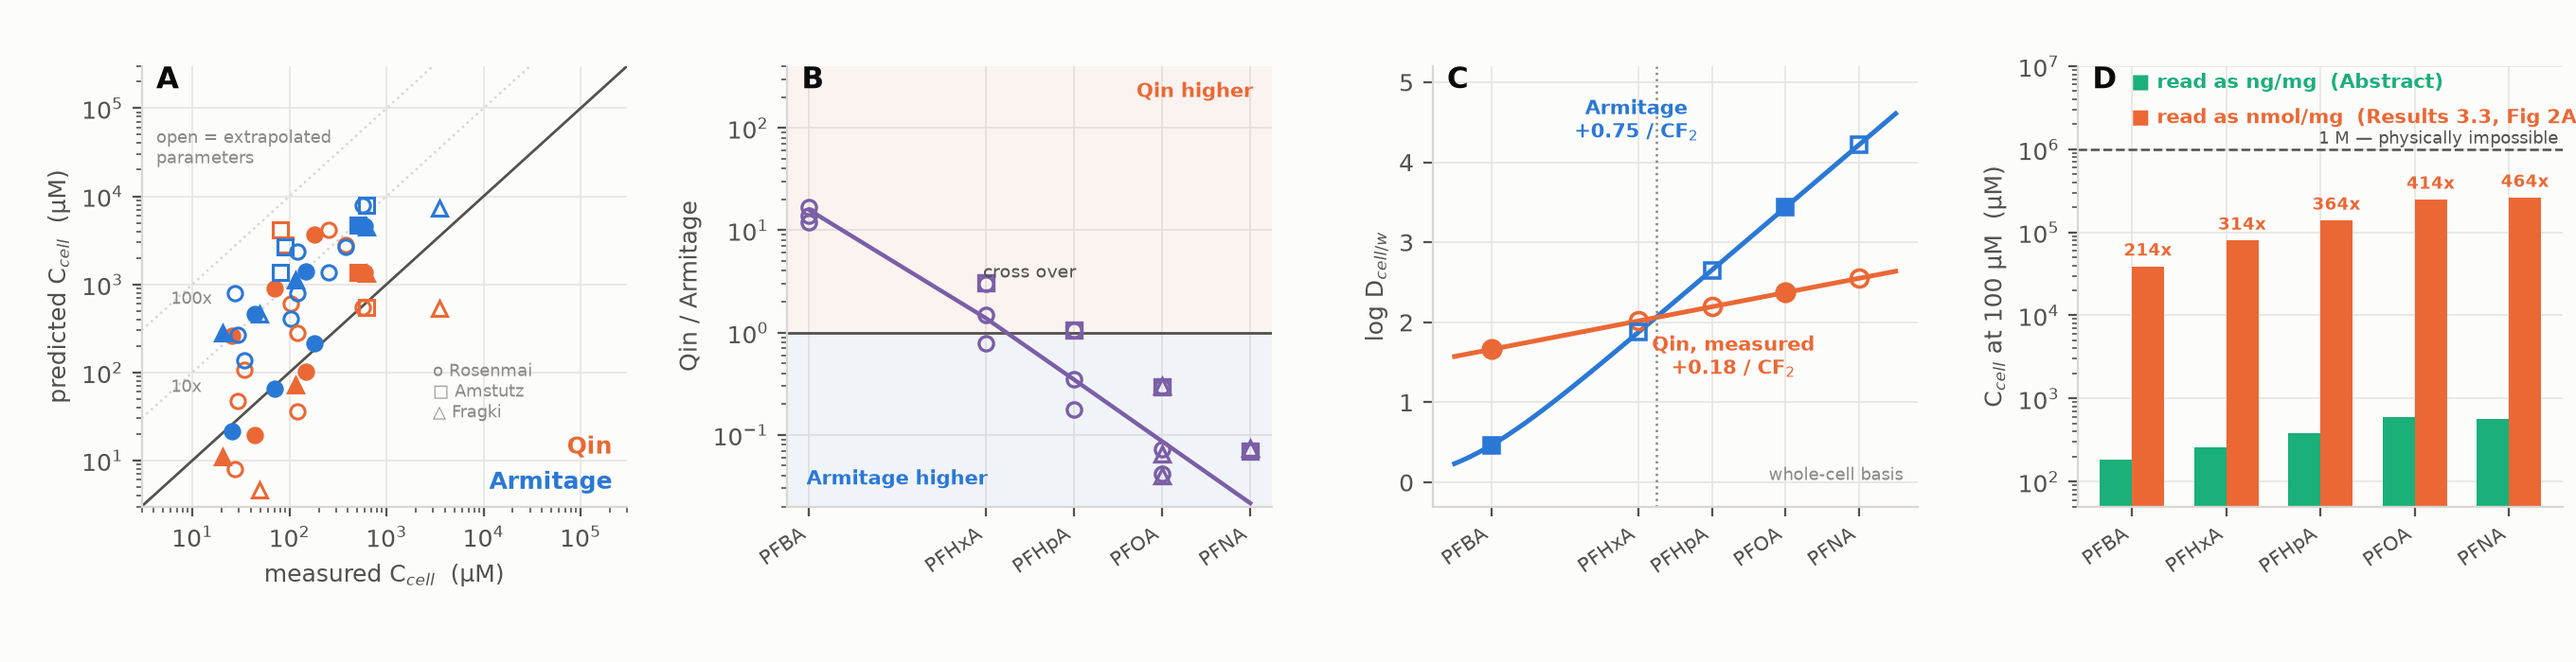
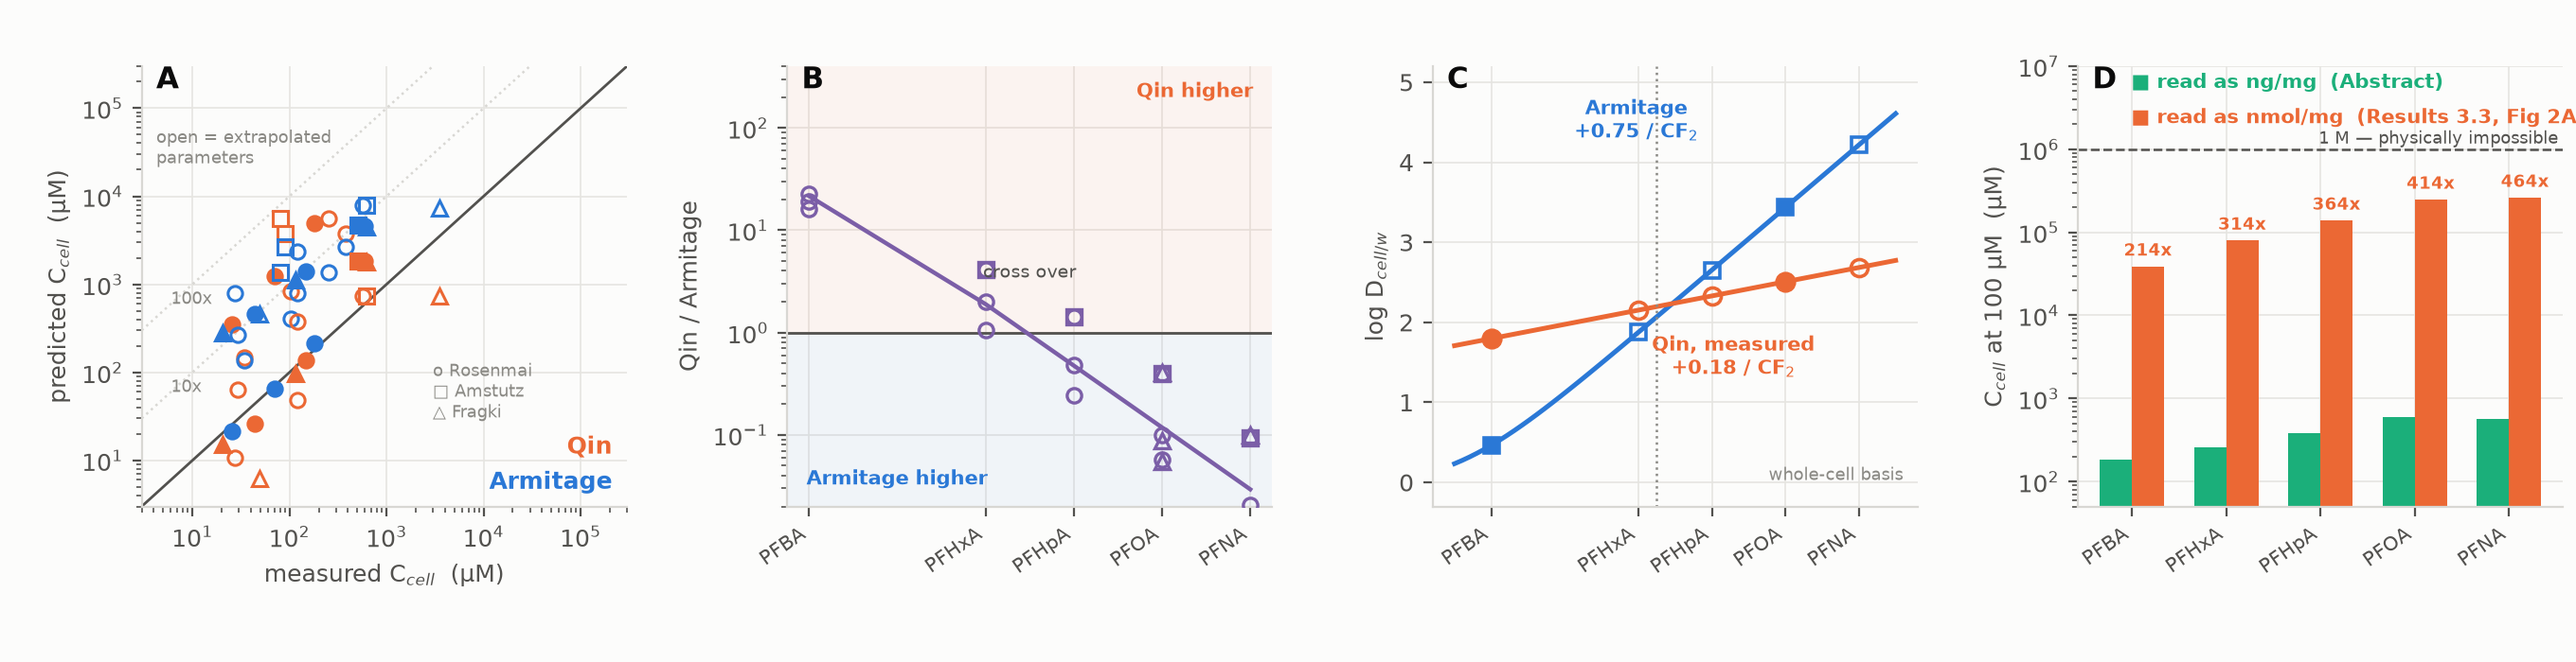
Use Qin's measured cell composition and couple it to the protein factor
Qin states the composition of the HEK293H cells his D_cell/w was measured in:
"the volume fractions of water, protein and lipid of cells were 91.6%, 8.14%
and 0.432% (Table A5)". That same pair fixes both the prot+lip fraction Qin's
cell term is scaled by and the mg-protein-per-mL-of-cell factor that converts a
measured nmol/mg into a concentration, so they are now one parameter; setting
them independently put two different cells in the same calculation. Default is
the HepG2 basis (0.164 protein by volume) since the measured data are HepG2 and
HepaRG, with Qin's HEK293H value carried as the alternative.

Also fixes a late-binding bug: ccell_from_nmol_per_mg took the protein factor
as a default argument, bound once at import, so sensitivity runs moved the
predicted side without moving the measured side and reported the opposite of
the real behaviour.

With that fixed, the composition pair is a clean diagnostic: Qin/measured moves
only 37.7x -> 38.3x (1.6%) across a 2x change in cell protein content, because
both sides scale with the protein fraction and it cancels, while
Armitage/measured moves the full 2x (1.66x -> 3.34x) because its cell is on a
whole-cell basis and only the measured side shifts. The protein-per-cell-volume
factor is therefore the largest remaining uncertainty in the Armitage limb.

Claude-Session: https://claude.ai/code/session_01KWGaE5eHaWPnoHpTeKGRB5

diff --git a/tk_review/scripts/mbm_qin_vs_armitage.py b/tk_review/scripts/mbm_qin_vs_armitage.py
@@ -189,13 +189,29 @@ ARM = dict(
 # Qin's Table 2 header reads "log Dcell/w [Lw/Lcell,prot+lip]": the ratio is per
 # litre of cell PROTEIN+LIPID, not per litre of cell.  Armitage's DR_kcw is per
 # litre of whole cell (its composition sums to 1.0 and includes 0.90 water), so
-# Qin's cell term must be scaled by this fraction before the two share an axis.
-# 0.1265 is the value in the project spreadsheet (675 pg protein + lipid per
-# 3.04 pL cell).  httk's cell is 0.10 non-water; a protein density of
-# 1.35 g/mL on 675 pg/cell gives 0.166.  It is a <=1.6x lever on Qin alone and
-# does not touch the chain-length slope.
-F_PROTLIP = 0.1265
-F_PROTLIP_RANGE = (0.100, 0.166)
+# Qin's cell term must be scaled by that fraction before the two share an axis.
+#
+# Qin measured it in the same HEK293H cells D_cell/w came from: "The volume
+# fractions of water, protein and lipid of cells were 91.6%, 8.14% and 0.432%
+# (Table A5)".  Those two numbers also fix the protein-per-cell-volume factor
+# that converts a measured nmol/mg protein into a concentration, so they are
+# kept as ONE pair -- setting them independently would assume two different
+# cells in the same calculation.  The ratio predicted/measured is nearly
+# invariant to the pair, because both sides scale with the protein fraction;
+# see composition_invariance().
+# The measured datasets are HepG2 and HepaRG, so the default is the project
+# spreadsheet's HepG2 basis: 675 pg protein in a 3.04 pL cell = 222 mg/mL =
+# a 0.164 protein volume fraction at 1.35 g/mL.  Qin's own HEK293H value is
+# 0.0814 -- 2x lower -- and is carried as the alternative.  Transferring Qin's
+# D_cell/w to HepG2 means applying it to HepG2's prot+lip volume, which is the
+# point of normalising to prot+lip in the first place.
+PROTEIN_DENSITY_G_ML = 1.35
+CELL_VF_PROTEIN = 0.164        # HepG2, project spreadsheet
+CELL_VF_LIPID = 0.00870        # scaled from Qin's protein:lipid volume ratio
+CELL_VF_PROTEIN_QIN = 0.0814   # Qin Table A5, HEK293H
+CELL_VF_LIPID_QIN = 0.00432    # Qin Table A5
+
+F_PROTLIP = CELL_VF_PROTEIN + CELL_VF_LIPID
 
 def armitage_pcs(logKow_n, kbsa2=False, kpl2=False):
     """spLFERs, httk armitage.R lines 663-694."""
@@ -287,8 +303,7 @@ ASSAYS = {
 # httk's 3 ng cell.  This is a COMMON-MODE factor: it shifts Rosenmai and
 # Fragki together and does not touch Amstutz, so it cannot create scatter
 # between studies -- only a uniform offset.
-MG_PROTEIN_PER_ML_CELL = 222.0      # 675 pg protein / 3.04 pL cell
-MG_PROTEIN_PER_ML_CELL_RANGE = (150.0, 300.0)
+MG_PROTEIN_PER_ML_CELL = CELL_VF_PROTEIN * PROTEIN_DENSITY_G_ML * 1000.0
 
 def volumes(a):
     """Compartment volumes in L.  httk armitage.R lines 820-830."""
@@ -384,13 +399,45 @@ def ccell_from_fraction(x_cell, nomconc_uM, V):
     """Fraction of nominal dose in cells -> C_cell (uM)."""
     return x_cell * nomconc_uM * V["Vbm"] / V["Vcells"]
 
-def ccell_from_nmol_per_mg(v, mg_per_mL=MG_PROTEIN_PER_ML_CELL):
-    """nmol/mg protein -> uM.  nmol/mg * mg/mL = nmol/mL = umol/L."""
+def ccell_from_nmol_per_mg(v, mg_per_mL=None):
+    """nmol/mg protein -> uM.  nmol/mg * mg/mL = nmol/mL = umol/L.
+
+    mg_per_mL is resolved at CALL time, not bound as a default, so the
+    sensitivity runs below actually move the measured side.
+    """
+    if mg_per_mL is None:
+        mg_per_mL = MG_PROTEIN_PER_ML_CELL
     return v * mg_per_mL
 
 # --------------------------------------------------------------------------
 # Validation against the papers' own published numbers
 # --------------------------------------------------------------------------
+def composition_invariance():
+    """The cell-composition pair cancels out of predicted/measured for Qin.
+
+    Measured C_cell scales with mg protein per mL of cell, i.e. with the
+    protein volume fraction.  Qin's predicted C_cell scales with prot+lip.
+    Both move together, so the ratio that the comparison turns on barely
+    shifts.  Armitage's cell is on a whole-cell basis and does not scale, so
+    its ratio moves with the full factor -- stated here rather than hidden.
+    """
+    global CELL_VF_PROTEIN, F_PROTLIP, MG_PROTEIN_PER_ML_CELL
+    keep = (CELL_VF_PROTEIN, F_PROTLIP, MG_PROTEIN_PER_ML_CELL)
+    out = []
+    for vf, vl in ((CELL_VF_PROTEIN, CELL_VF_LIPID),
+                   (CELL_VF_PROTEIN_QIN, CELL_VF_LIPID_QIN)):
+        CELL_VF_PROTEIN = vf
+        F_PROTLIP = vf + vl
+        MG_PROTEIN_PER_ML_CELL = vf * PROTEIN_DENSITY_G_ML * 1000.0
+        V = volumes(ASSAYS["Rosenmai2017"])
+        meas = ccell_from_nmol_per_mg(126.0 / 214.04)      # Rosenmai PFBA 100 uM
+        q = qin_predict("PFBA", 3, 100.0, V, "mechanistic")["C_cell"]
+        a = armitage_predict(2.60, 100.0, V)["C_cell"]
+        out.append((vf, F_PROTLIP, MG_PROTEIN_PER_ML_CELL, q / meas, a / meas))
+    CELL_VF_PROTEIN, F_PROTLIP, MG_PROTEIN_PER_ML_CELL = keep
+    return out
+
+
 def validate():
     checks = []
     def ck(label, got, want, tol):
@@ -440,6 +487,13 @@ def validate():
 def main():
     validate()
     print()
+    print("Cell composition (HepG2 basis): protein %.3f, lipid %.5f by volume"
+          " -> F_protlip %.4f, %.0f mg protein/mL cell"
+          % (CELL_VF_PROTEIN, CELL_VF_LIPID, F_PROTLIP, MG_PROTEIN_PER_ML_CELL))
+    print("   sensitivity to that pair (Qin Table A5 gives 0.0814 for HEK293H):")
+    for vf, fp, mg, qr, ar in composition_invariance():
+        print("   vf_protein %.4f -> Qin/measured %6.2fx   Armitage/measured %6.2fx"
+              % (vf, qr, ar))
     print("Armitage parameterisation:", ARMITAGE_PROVENANCE)
     print("log Kow infill: OPERA %+.3f per CF2, COSMOtherm %+.3f per CF2 "
           "(2 anchors: PFBA, PFOA)" % (SLOPE_OPERA, SLOPE_COSMO))

diff --git a/tk_review/report/MBM_Qin_vs_Armitage.md b/tk_review/report/MBM_Qin_vs_Armitage.md
@@ -25,6 +25,24 @@ so it is the same parameterisation, not a reconstruction.
 | dose dependence | yes | none — linear everywhere |
 | plastic | not in the SPME balance | Kramer or Fischer spLFER |
 
+**Cell composition.** Qin measured it in the same HEK293H cells his D_cell/w
+comes from: "the volume fractions of water, protein and lipid of cells were
+91.6%, 8.14% and 0.432% (Table A5)". That pair fixes *both* the prot+lip
+fraction Qin's cell term is scaled by *and* the mg-protein-per-mL-of-cell factor
+that turns a measured nmol/mg into a concentration, so the code keeps them as
+one parameter — setting them independently would put two different cells in the
+same calculation. The default is the HepG2 basis (0.164 protein by volume, from
+675 pg protein in a 3.04 pL cell), since the measured datasets are HepG2 and
+HepaRG; Qin's HEK293H value is 2× lower and is carried as the alternative.
+
+Switching between them is a useful diagnostic. **Qin/measured barely moves
+(37.7× → 38.3×, 1.6%)** because both sides scale with the protein fraction and
+it cancels. **Armitage/measured moves by the full 2× (1.66× → 3.34×)** because
+its cell is on a whole-cell basis and only the measured side shifts. So the
+Qin comparison is robust to the cell-composition assumption and the Armitage
+comparison is not — the protein-per-cell-volume factor is the single largest
+remaining uncertainty in the Armitage limb, and no study here reports it.
+
 **Volume basis.** Qin's Table 2 header reads `log Dcell/w [Lw/Lcell,prot+lip]`
 and `log Dplasma/w [Lw/Lprot+lip]` — his distribution ratios are per litre of
 *sorptive phase*, not per litre of cell or plasma. Armitage's `DR_kcw` is per
@@ -193,10 +211,10 @@ outlier is created.
   (cells + medium at 24 h), not nominal; its mass balance was 93–106%, so the
   two bases are within a few percent here. The model is scored on the matching
   basis for each study.
-- `F_PROTLIP = 0.1265` is a ≤1.6× lever on Qin's cell term alone (httk's cell is
-  0.10 non-water; a 1.35 g/mL protein density on 675 pg/cell gives 0.166). It
-  shifts Qin's curve vertically and does not change the chain-length slope that
-  the Qin/Armitage disagreement consists of.
+- `F_PROTLIP` and the protein-per-mL factor are one coupled pair (see §1). The
+  pair cancels out of Qin/measured to 1.6% but carries the full 2× into
+  Armitage/measured. Neither changes the chain-length slope the Qin/Armitage
+  disagreement consists of.
 
 ## 8. Reconciliation with the project spreadsheet
 
